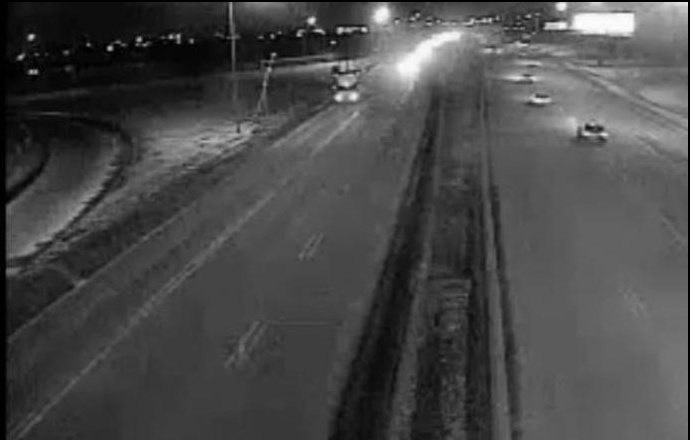
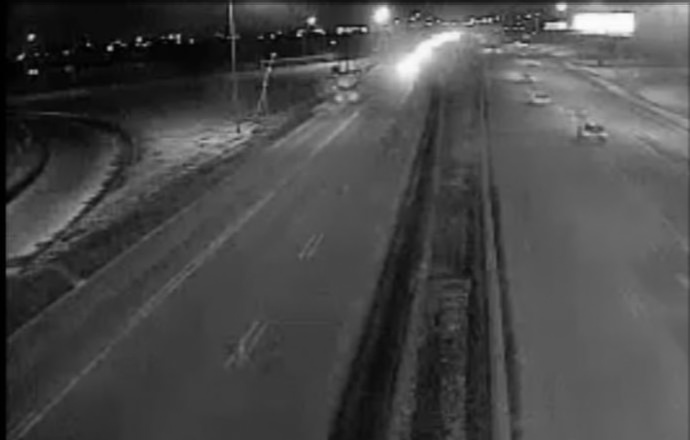
add background

diff --git a/ExtraerFondo.py b/ExtraerFondo.py
@@ -35,18 +35,38 @@ class ExtraerFondo:
         cv2.waitKey(0)
 
     def initExtraerFondo(self):
-        numero_imagenes = 5
+        numero_imagenes = 8
+        fondo = self.imagen_original
+        alpha = 0.1
         for i in range(numero_imagenes):
             namei = "im00000"+repr(i+2)+".jpg"
-            print(namei)
             alinear = self.ssd(namei)
-            self.loop()
+            fondo = (1-alpha)*fondo+(alpha*alinear)
+            #self.loop()
+        cv2.imwrite("resultado.jpg",fondo)
+        img = cv2.imread("resultado.jpg")
+        cv2.imshow("Resultado",img)
+
     
     def ssd(self,namei):
         #leer la imagen i
         imageN = cv2.imread(namei,0)
-        self.showImage("ImagenN",imageN)
+        #self.showImage("ImagenN",imageN)
+        rest = 99**99
+        pos = []
+        for y in range(imageN.shape[0]-self.mask.shape[0]):
+            for x in range(imageN.shape[1]-self.mask.shape[1]):
+                sum = 0
+                tempCrop = imageN[int(y):int(y+self.mask.shape[0]),int(x):int(x+self.mask.shape[1])]
+                sum = np.sum((tempCrop-self.mask)**2)
+                if sum < rest :
+                    rest = sum
+                    pos = x,y
+        desx =  self.cut[0] - pos[0]
+        desy =  self.cut[1] - pos[1] 
 
-        
-        return ""
+        m = np.float32([[1,0,desx],[0,1,desy]])
+        dst = cv2.warpAffine(imageN,m,(imageN.shape[1],imageN.shape[0]))
+
+        return dst
          
